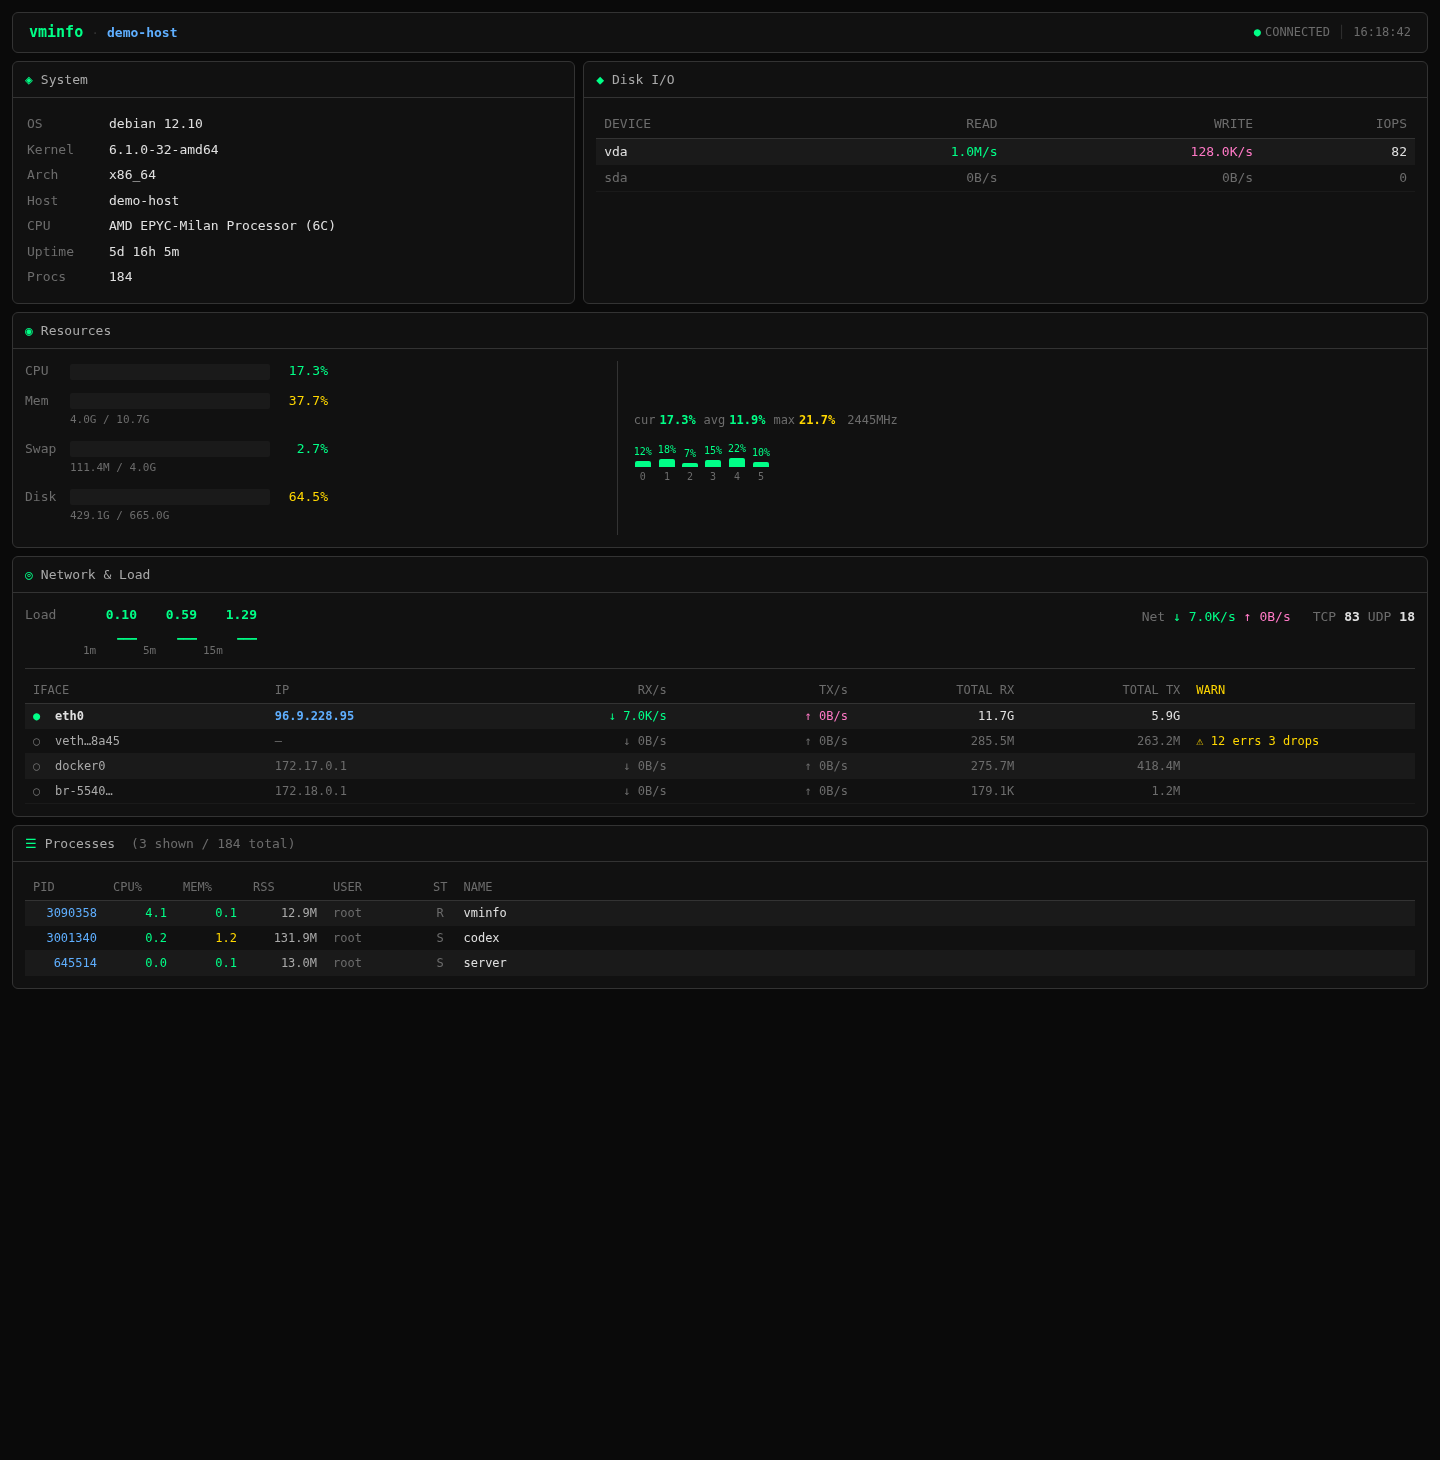
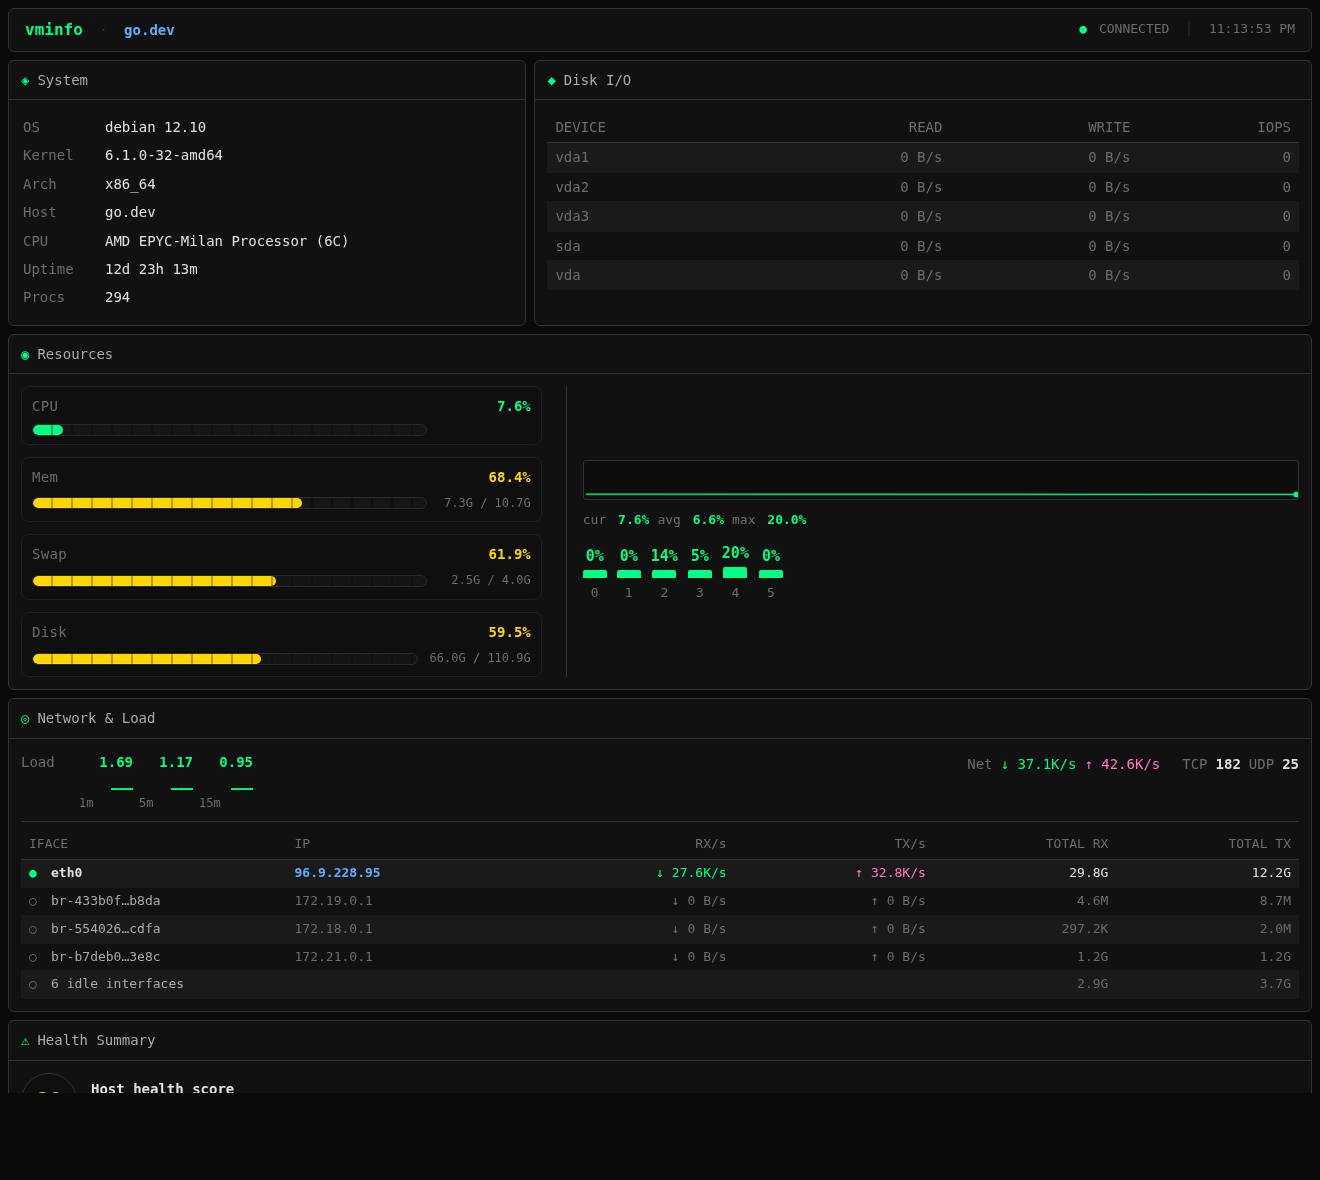
docs: improve vminfo site metadata

diff --git a/sites/vminfo/docs/index.md b/sites/vminfo/docs/index.md
@@ -1,5 +1,6 @@
 ---
 layout: home
+description: vminfo is a cross-platform terminal system monitor and CLI for Linux, macOS, and Windows — live CPU, memory, disk, network, and process stats, JSON output, a web dashboard, and an embeddable Go library.
 hero:
   name: vminfo
   text: Terminal system monitor, web dashboard, and Go library
@@ -87,7 +88,7 @@ Use it when you need to:
   <img src="./assets/tui-help.png" alt="vminfo help overlay" />
 </div>
 
-![vminfo demo GIF](./assets/tui-demo.gif)
+![vminfo TUI overview](./assets/tui-overview-refreshed.png)
 
 ## Quick links
 